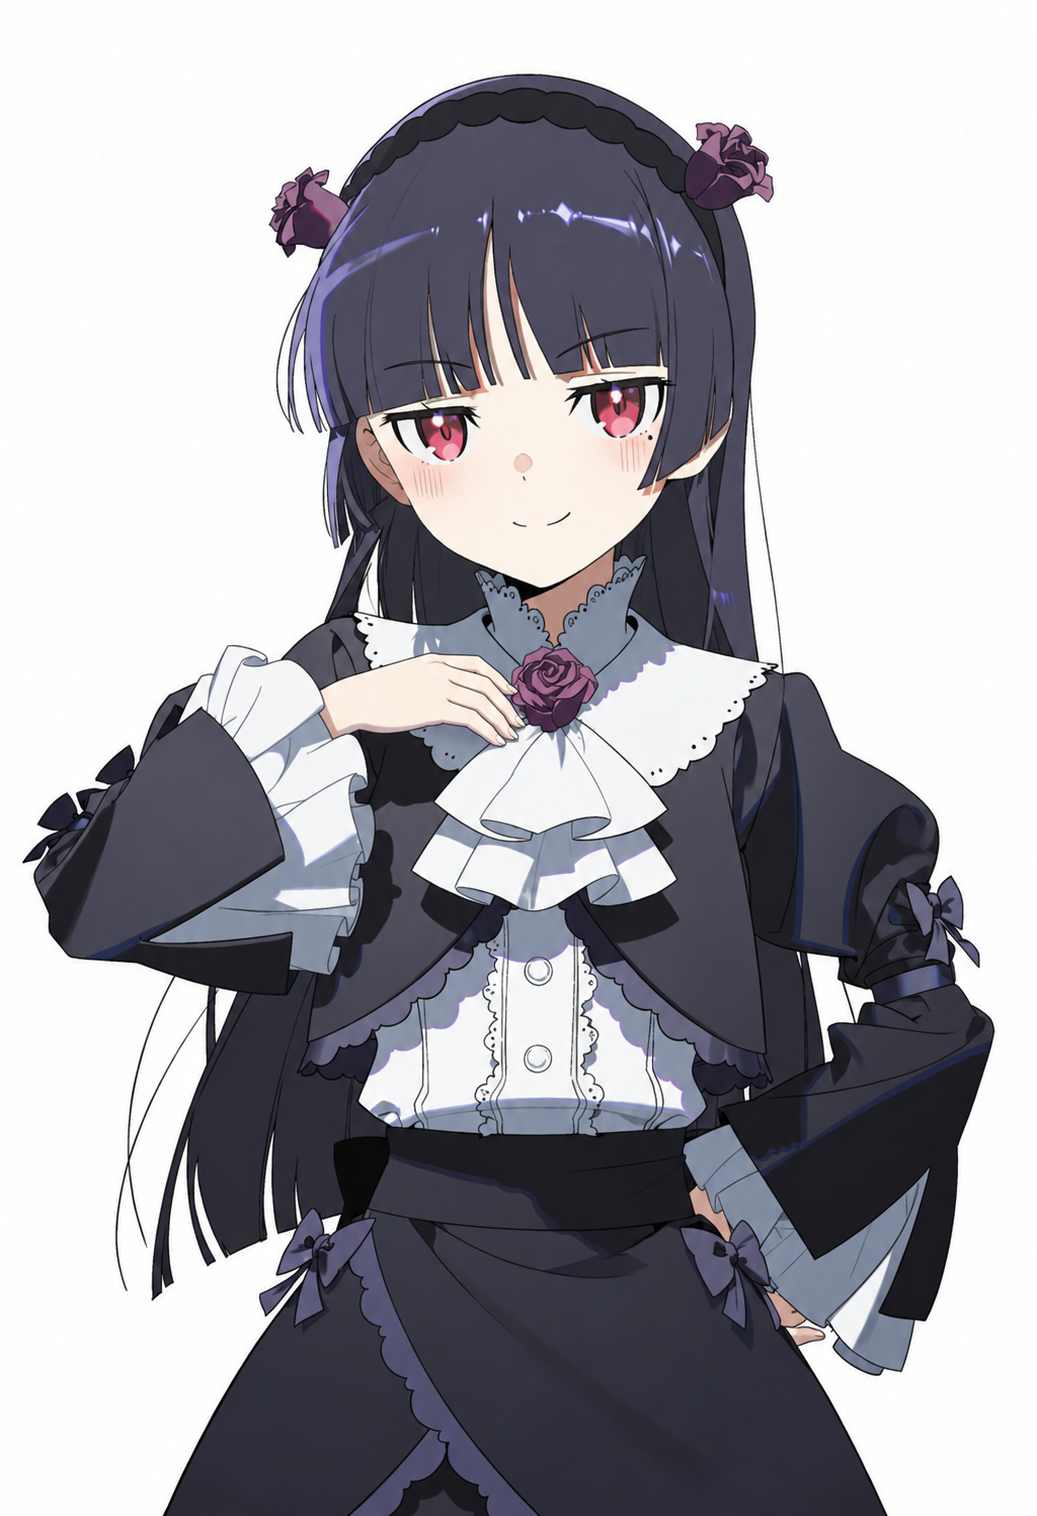
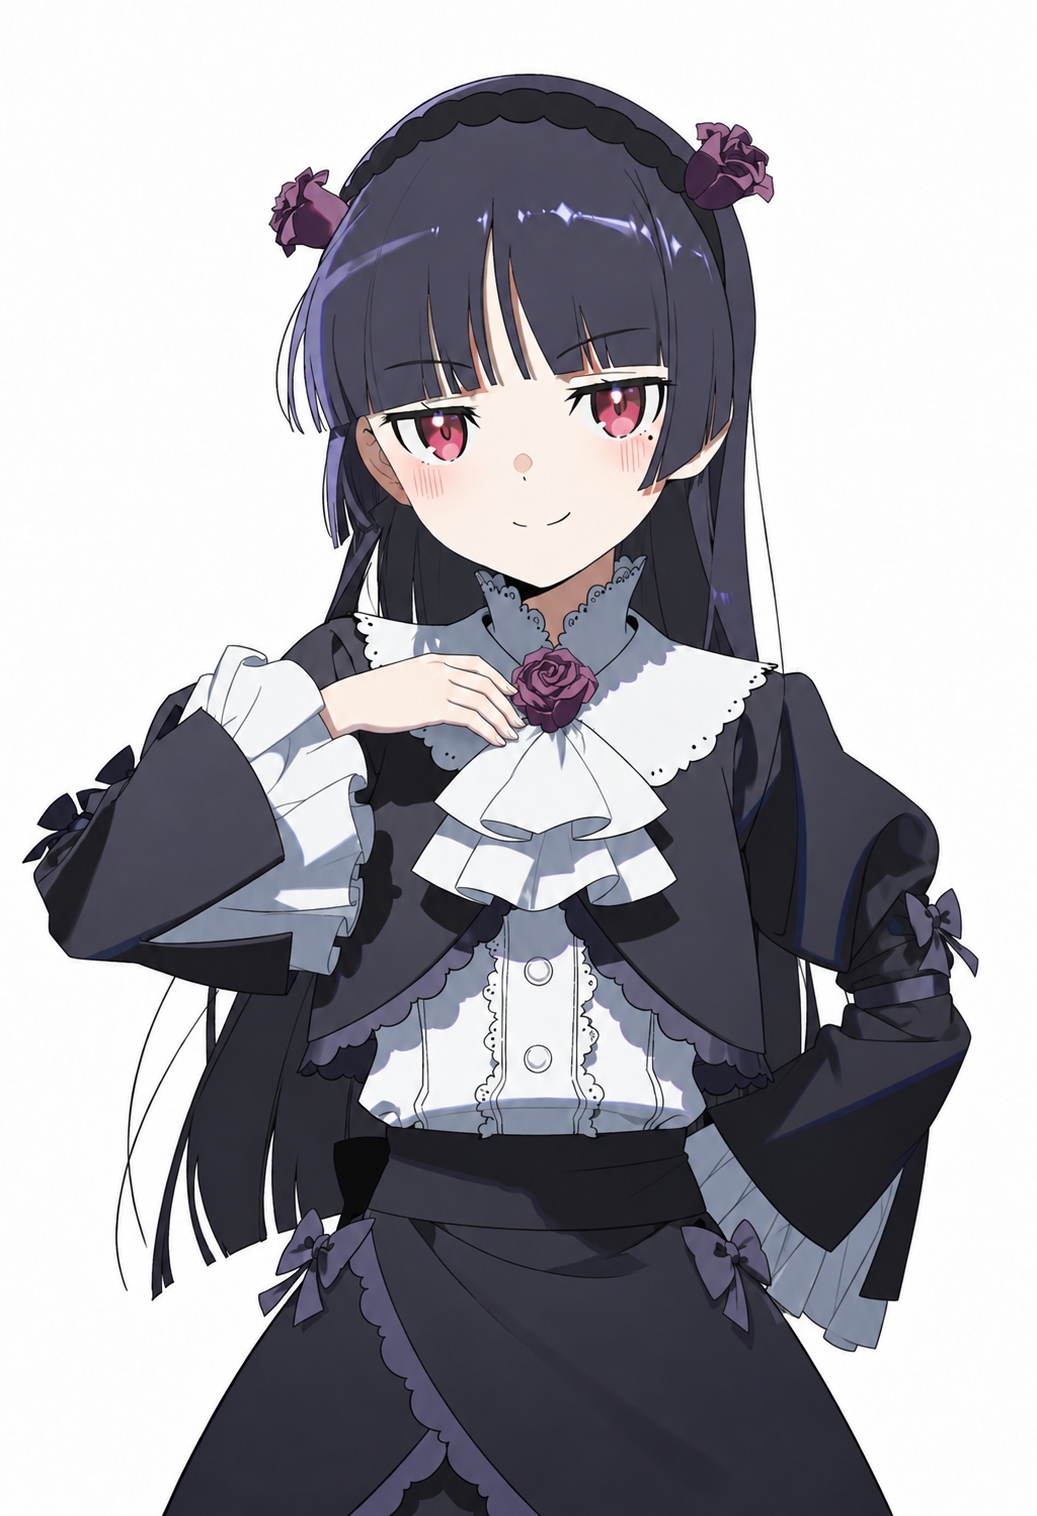
Update 五更瑠璃 default portrait

diff --git a/images/portraits/oreimo/gokou-ruri/README.md b/images/portraits/oreimo/gokou-ruri/README.md
@@ -1,9 +1,9 @@
 # 五更瑠璃 · 常规立绘
 
 - 当前文件：[default.png](default.png)。
-- 用户选定原图：`hand-fixed.png`。
-- 尺寸：1037 × 1516；大小：1,380,092 字节。
[1 lines of base64/hex data omitted]
+- 用户选定原图：`hand-fixed-v2.png`。
+- 尺寸：1037 × 1516；大小：1,565,886 字节。
[1 lines of base64/hex data omitted]
 - PNG 模型记录：未知。
 - 可读取的生成参数：seed 未知；steps 未知；scale 未知；cfg_rescale 未知；sampler 未知；noise_schedule 未知。
 - 原图字节及内嵌数据完整保留，没有裁切、缩放、抠图或重新编码。
